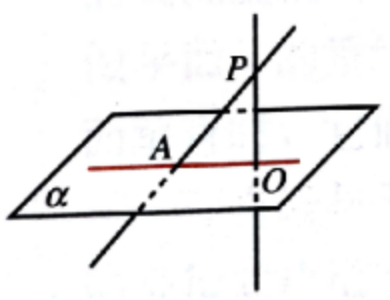
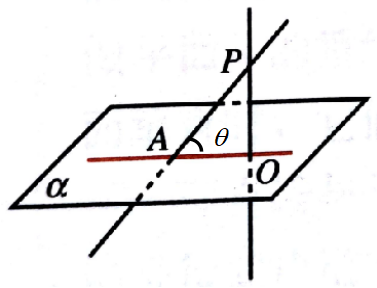
Signed-off-by: zbzhen <zbzhen@smail.hunnu.edu.cn>

Changed region(s): [[0.0, 0.0, 0.992, 1.0]]

diff --git a/geo/lppt.html b/geo/lppt.html
@@ -39,14 +39,18 @@
 <script>
   function setCube()
   {
-  if(document.getElementById('simplelp22__line1').getAttribute('transparency')!= '1')
-     document.getElementById('simplelp22__line1').setAttribute('transparency', '1');
-  else 
-     document.getElementById('simplelp22__line1').setAttribute('transparency', '0.5'); 
   if(document.getElementById('simplelp22__line2').getAttribute('transparency')!= '1')
      document.getElementById('simplelp22__line2').setAttribute('transparency', '1');
   else 
      document.getElementById('simplelp22__line2').setAttribute('transparency', '0.5'); 
+  if(document.getElementById('simplelp22__po').getAttribute('transparency')!= '1')
+     document.getElementById('simplelp22__po').setAttribute('transparency', '1');
+  else 
+     document.getElementById('simplelp22__po').setAttribute('transparency', '0'); 
+  if(document.getElementById('simplelp22__line1').getAttribute('transparency')!= '1')
+     document.getElementById('simplelp22__line1').setAttribute('transparency', '1');
+  else 
+     document.getElementById('simplelp22__line1').setAttribute('transparency', '0.5'); 
   }
 </script>
 <script>
@@ -191,6 +195,7 @@ function restart()
 					<td>
 					    <x3d id = "simplelp00" width='500px' height='500px', margin-left='300px' style="border: none;"> 
 					      <scene>
+						  <OrthoViewpoint >  </OrthoViewpoint>
 						<inline url="./data/simplelp00.x3d" nameSpaceName="simplelp00" mapDEFToID="true" onclick=''/>
 					      </scene> 
 					    </x3d> 
@@ -225,7 +230,7 @@ function restart()
 					<p> (3)斜线与平面所成的角 <br />平面的一条<span class="fragment highlight-blue">斜线</span>
 					和它在平面上的射影所成的<span class="fragment highlight-green">锐角</span>，
 					叫<span class="fragment highlight-red">这条直线和平面所成的角</span>.</p>
-					<p class="fragment"> (4)特殊线面角<br />
+					<p class="fragment"> (4)两类特殊情形<br />
 					  直线垂直于平面，它们所成的角是直角，即
 					<span class="fragment highlight-red">$90$°</span>的角； 
 					<!-- </h5><h5 class="fragment">  直线平行平面，或在平面内，它们所成的角是 -->
@@ -248,6 +253,7 @@ function restart()
 						<td>
 						    <x3d  width='400px' height='400px',  style="border: none;"> 
 						      <scene>
+							  <OrthoViewpoint >  </OrthoViewpoint>
 							<inline url="./data/simplelp.x3d" nameSpaceName="Dice" mapDEFToID="true" onclick=''/>
 						      </scene> 
 						    </x3d> 
@@ -258,14 +264,34 @@ function restart()
 
 				<section style="text-align: left;" data-transition="convex-in fade-out" data-background="rgb(255,255,255)">
 				<p>解：</p>
-					<p class="fragment">1) $\because PA$⊥$AC$，$\therefore$直线$PA$与平面$AC$所成角为$90^\circ$;</p>
-					<p class="fragment">$\because PA$⊥$AC$，$\therefore AB$为直线$PB$在平面$AC$上的射影，
-					从而直线$PB$与平面$AC$所成角为$45^\circ$; 同理直线$PD$与平面$AC$所成角为$45^\circ$.</p>
-					<p class="fragment">2) $PC$与平面$AC$: $\tan\angle PCA=\frac{PA}{AC}=\frac{\sqrt{2}}{2}$</p>
-					<p class="fragment"> &nbsp;&nbsp;$PC$与平面$PAD$: $\tan\angle CPD=\frac{CD}{PD}=\frac{\sqrt{2}}{2}$</p>
-					<p class="fragment"> &nbsp;&nbsp;$PC$与平面$PAB$: $\tan\angle CPB=\frac{BC}{PB}=\frac{\sqrt{2}}{2}$</p>
+					<p >1) $\because PA$⊥平面$AC$，$\therefore$$PA$与平面$AC$所成角为$90^\circ$;</p>
+					<p >$\because PA$⊥平面$AC$，$\therefore$$ AB$为$PB$在平面$AC$上的射影，
+					从而$PB$与平面$AC$所成角为$\angle PBA =45^\circ$; 同理,$PD$与平面$AC$所成角为$\angle PDA =45^\circ$.</p>
+					<p >2) $PC$与平面$AC$: $\tan\angle PCA=\frac{PA}{AC}=\frac{\sqrt{2}}{2}$</p>
+					<p > &nbsp;&nbsp;$PC$与平面$PAD$: $\tan\angle CPD=\frac{CD}{PD}=\frac{\sqrt{2}}{2}$</p>
+					<p > &nbsp;&nbsp;$PC$与平面$PAB$: $\tan\angle CPB=\frac{BC}{PB}=\frac{\sqrt{2}}{2}$</p>
 				</section>
-
+				
+				<section style="text-align: left;" data-transition="convex-in fade-out" data-background="rgb(255,255,255)">
+					<p>如图，在正方体ABCD-A'B'C'D'中，求直线A'B和平面A'B'CD所成的角</p>
+					<div align="center">
+					<table border="0">
+					<td ><img src="./data/exm2.png"  style="border: none;"></td>
+					<td>
+					    <x3d id = "simplelp22" width='400px' height='400px',  style="border: none;"> 
+					      <scene>
+						  <OrthoViewpoint >  </OrthoViewpoint>
+						<inline url="./data/simplelp2.x3d" nameSpaceName="simplelp22" mapDEFToID="true" onclick=''/>
+					      </scene> 
+					    </x3d> 
+					</td>
+					</table>
+					</div>
+					<div align="center">
+					<button onclick="setCube();" style="color:FireBrick">显示或隐藏辅助线</button>
+					</div>
+				</section>
+				
 				<section style="text-align: left;" data-transition="convex-in fade-out" data-background="rgb(255,255,255)">
 					<p>已知AB为的$\odot$O直径，C为圆周上一点，且PA=4，AB=4，BC= $2\sqrt{3}$， PA⊥平面ABC.</p>
 					<p>1)求证：BC⊥平面PAC;</p>
@@ -278,24 +304,6 @@ function restart()
 					</tr></table></div> -->
 				</section>
 
-				<section style="text-align: left;" data-transition="convex-in fade-out" data-background="rgb(255,255,255)">
-					<p>如图，在正方体ABCD-A'B'C'D'中，求直线A'B和平面A'B'CD所成的角</p>
-					<div align="center">
-					<table border="0">
-					<td ><img src="./data/exm2.png"  style="border: none;"></td>
-					<td>
-					    <x3d id = "simplelp22" width='400px' height='400px',  style="border: none;"> 
-					      <scene>
-						<inline url="./data/simplelp2.x3d" nameSpaceName="simplelp22" mapDEFToID="true" onclick=''/>
-					      </scene> 
-					    </x3d> 
-					</td>
-					</table>
-					</div>
-					<div align="center">
-					<button onclick="setCube();" style="color:FireBrick">显示或隐藏辅助线</button>
-					</div>
-				</section>
 
 				<section style="text-align: left;" data-transition="convex-in fade-out" data-background="rgb(255,255,255)">
 					<p>如图，在Rt$\Delta BMC$中，斜边$BM = 5$，其在平面$ABC$上的射影$AB=4，\angle MBC = 60^\circ$，求$MC$与平面$CAB$所成角的正弦值</p>
@@ -307,12 +315,13 @@ function restart()
 
 				<section style="text-align: left;" data-transition="convex-in fade-out" data-background="rgb(255,255,255)">
 					<h3> 总结</h3>
-					<h5 class="fragment"> 直线与平面所成角的求法:（当直线与平面斜交时）</h5>
-					<h5 class="fragment"> 1. <span style="color:FireBrick"> 作 </span>------作出或找到斜线与射影所成的角；</h5>
-					<h5 class="fragment"> &nbsp;&nbsp;&nbsp;&nbsp; 过斜线上一点作平面的垂线，再连结垂足和斜足.</h5>
-					<h5 class="fragment"> 2.<span style="color:FireBrick"> 证 </span>------论证所作或找到的角为所求的角；</h5>
-					<h5 class="fragment"> 3.<span style="color:FireBrick"> 求 </span>------常用解直三角形的方法求角.</h5>
+					<p class="fragment"> 直线与平面所成角的求法:（当直线与平面斜交时）</p>
+					<p class="fragment"> 1. <span style="color:FireBrick"> 作 </span>------作出或找到斜线与射影所成的角；</p>
+					<p class="fragment"> &nbsp;&nbsp;&nbsp;&nbsp; 过斜线上一点作平面的垂线，再连结垂足和斜足.</p>
+					<p class="fragment"> 2.<span style="color:FireBrick"> 证 </span>------论证所作或找到的角为所求的角；</p>
+					<p class="fragment"> 3.<span style="color:FireBrick"> 求 </span>------常用解直三角形的方法求角.</p>
 				</section>
+
 
 				<section data-background="rgb(255,255,255)">
 					<h1>  <span style="color:Blue"> Thank you! </span></h1>

diff --git a/geo/lp.html b/geo/lp.html
@@ -141,9 +141,19 @@ function restart()
 	<table border="0">
 	<td>
 	    <x3d id = "simplelp00" width='500px' height='500px', margin-left='300px' style="border: none;"> 
-	      <scene>
+
+		  <scene>		  
+		  <!-- <OrthoViewpoint centerOfRotation="0.5 0.7 0">  </OrthoViewpoint> -->
+		  <!-- <GeoViewpoint position="0.0 0.0 0" ></GeoViewpoint> -->
+		  <GeoViewpoint position='0.5 0.7 0' znear=-1 zfar=-1></GeoViewpoint>
+		  <!-- <OrthoViewpoint bind='false' centerOfRotation="0.5 0.7 0" description='""' fieldOfView='[-1,-1,1,1]' isActive='false' metadata='X3DMetadataObject' orientation='0,0,0,1' position='0,0,10' zFar='10000' zNear='0.1' ></OrthoViewpoint> -->
+<!-- <GeoViewpoint bind='false' centerOfRotation='0,0,0' description='""' elevationScaling='true' fieldOfView='0.785398' geoOrigin='x3dom.nodeTypes.X3DViewpointNode' geoSystem='['GD','WE']' headlight='undefined' isActive='false' metadata='X3DMetadataObject' navType='undefined' orientation='0,0,1,0' position='0,0,100000' speedFactor='1.0' ></GeoViewpoint>
+ -->
 		<inline url="./data/simplelp00.x3d" nameSpaceName="simplelp00" mapDEFToID="true" onclick=''/>
-	      </scene> 
+			
+			<!-- </GeoViewpoint> -->
+		 </scene> 
+		 
 	    </x3d> 
 	</td>
 	</table>
@@ -158,8 +168,18 @@ function restart()
 	<button onclick="setang4();" style="color:FireBrick">找角</button>
 	华南师大中山附中柯老师提供(仅供学习) 
 	<button onclick="restart();" style="color:FireBrick">重置</button>
+	<p><input type="button" value="changeProjection" onclick="changePerpective()"/></p>
 	</div>
 </div>
+
+	<script type="text/javascript" >
+	<![CDATA[
+	function changePerpective(){
+		document.getElementById('simplelp00__ROOT').runtime.nextView();
+        return false;
+	}
+	]]>
+    </script>
 </body>
 
 
@@ -174,6 +194,10 @@ function restart()
 	<td>
 	    <x3d  width='300px' height='300px', margin-left='300px'> 
 	      <scene>
+<GeoViewpoint bind='false' centerOfRotation='0,0,0' description='""' elevationScaling='true' fieldOfView='0.785398' geoOrigin='x3dom.nodeTypes.X3DViewpointNode' geoSystem='['GD','WE']' headlight='undefined' isActive='false' metadata='X3DMetadataObject' navType='undefined' orientation='0,0,1,0' position='0,0,100000' speedFactor='1.0' ></GeoViewpoint>
+
+		  		  <OrthoViewpoint bind='false' centerOfRotation='0,0,0' description='""' fieldOfView='[-1,-1,1,1]' isActive='false' metadata='X3DMetadataObject' orientation='0,0,0,1' position='0,0,10' zFar='10000' zNear='0.1' ></OrthoViewpoint>
+
 		<inline url="./data/simplelp.x3d" nameSpaceName="Dice" mapDEFToID="true" onclick=''/>
 	      </scene> 
 	    </x3d> 
@@ -181,8 +205,17 @@ function restart()
 	</table>
 	</div>
 	<div align="center">华南师大中山附中柯老师提供(仅供学习)</div>
+	<p><input type="button" value="changeProjection" onclick="changePerpective()"/></p>
 	
 </div>
+	<script type="text/javascript" >
+	<![CDATA[
+	function changePerpective(){
+		document.getElementById('ROOT').runtime.nextView();
+        return false;
+	}
+	]]>
+    </script>
 </body>
 
 
